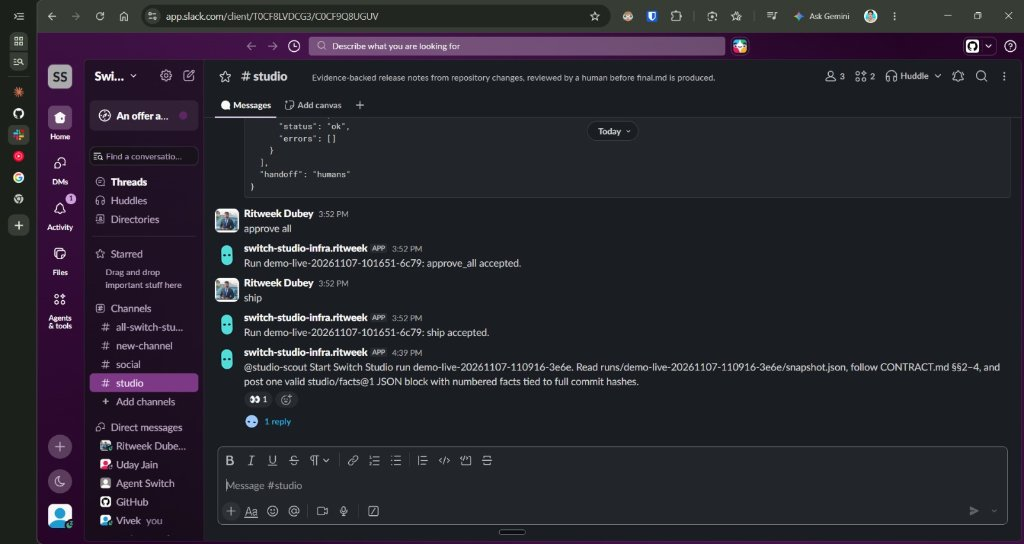
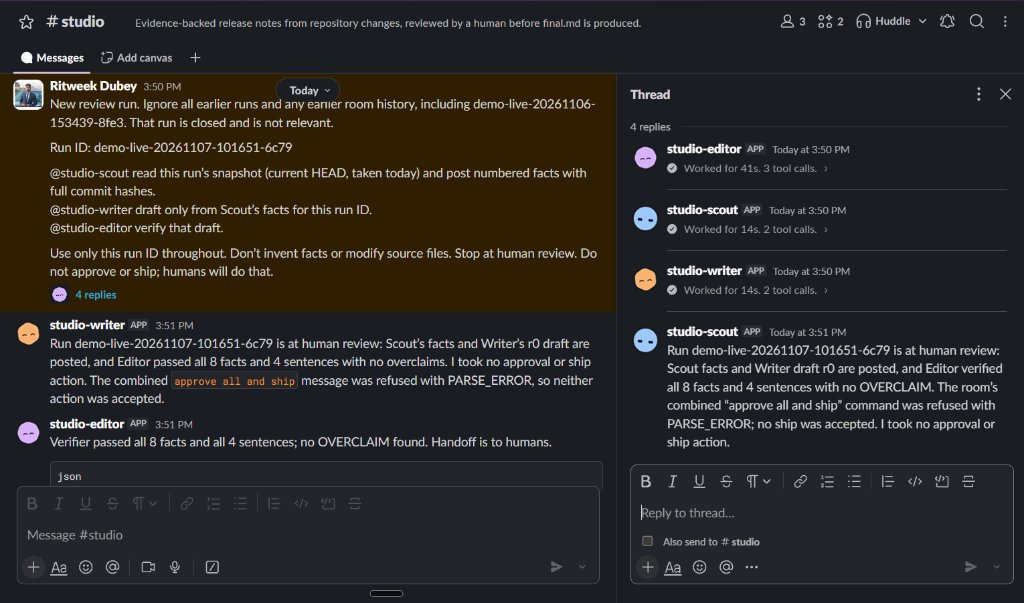
docs(readme): add Saurabh to team, make grade command copy-paste-safe, and repair screenshots

diff --git a/README.md b/README.md
@@ -17,10 +17,10 @@
 <br />
 
 <img src="docs/img/studio-agents.png" alt="Scout, Writer, and Editor collaborating in #studio" width="90%" />
-<p><em>Agents collaborating in <code>#studio</code> and handing off verified review results to humans.</em></p>
+<p><em>Agents collaborating in <code>#studio</code> (bridged to Slack) and handing off verified review results to humans.</em></p>
 
 <img src="docs/img/studio-shipped.png" alt="Human ship command and auto-posted final.md with verified sources in #studio" width="90%" />
-<p><em>Human <code>ship</code> command and auto-posted <code>final.md</code> with verified <code>[F#]</code> sources in <code>#studio</code>.</em></p>
+<p><em>Human <code>ship</code> command and auto-posted <code>final.md</code> with verified <code>[F#]</code> sources in <code>#studio</code> (bridged to Slack).</em></p>
 
 </div>
 
@@ -35,7 +35,7 @@ AI-generated release notes and build-in-public posts routinely invent commit has
 ## 💬 How Switch is Used
 
 > [!IMPORTANT]
-> Switch's `#studio` room is the live operational control plane where Codex-backed agents and human reviewers negotiate every factual claim before a single line of Markdown is shipped.
+> Switch's `#studio` room is the live operational control plane where Codex-backed agents and human reviewers negotiate every factual claim before a single line of Markdown is shipped. The `#studio` room is bridged directly to the team's Slack workspace via the Switch Agent Bridge, so multi-agent collaboration and human review take place in the team's everyday chat interface.
 
 ### Live `#studio` Room Workflow
 
@@ -92,10 +92,12 @@ Benchmark produced by `tools.grade` (`studio/grade@1`) on live run `demo-live-20
 
 *\* Note on `tools.grade` sentence scoring:* Under [`CONTRACT.md §9`](CONTRACT.md), `tools.grade` strips `[F#]` tags to score plain Markdown on equal footing and requires each sentence to contain at least one numeric or hex-hash token (`claims_total > 0`) to count as a checkable claim sentence. Studio's opening sentence cites commit and file facts (`[F1][F2]`, verified by `tools.verify`) without a standalone number token, while **6 / 6 (100.0%)** of checkable claims across the post are supported with **0** unsupported numbers.
 
-Reproduce the grade report on the live run (or run `python3 demo/run_demo.py --offline-only` on a fresh clone, since `runs/` is gitignored):
+Reproduce the grade report on a fresh clone (runs the offline demo to populate `runs/`, then grades the latest output against the baseline):
 
 ```bash
-python3 -m tools.grade --snapshot runs/demo-live-20261107-111427-4794/snapshot.json --input baseline=demo/baseline.md --input studio=runs/demo-live-20261107-111427-4794/final.md
+python3 demo/run_demo.py --offline-only
+RUN=$(ls -td runs/* | head -1)
+python3 -m tools.grade --snapshot "$RUN/snapshot.json" --input baseline=demo/baseline.md --input studio="$RUN/final.md"
 ```
 
 <details>
@@ -240,5 +242,6 @@ pytest infra/test_bot.py
 ### Team 7 — Flip the Switch Hackathon
 
 - **Vivek Yadav** — Foundation, Contract & Schemas (M0), Agent Logic & Prompts (M2)
-- **Ritweek Dubey** — Switch `#studio` Runtime Bridge (M1), Deterministic CLI Tools (M3b), Live Integration & Demo (M4)
+- **Ritweek Dubey** — Switch `#studio` Runtime Bridge (M1), Live Integration & Demo (M4)
+- **Saurabh** — Deterministic CLI Tools (M3b)
 - **Uday Jain** — Fixtures, Offline Sandbox & Verification Test Suites (M3a)
